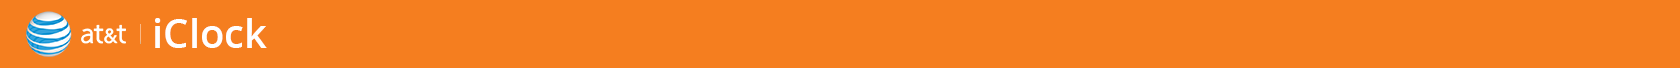
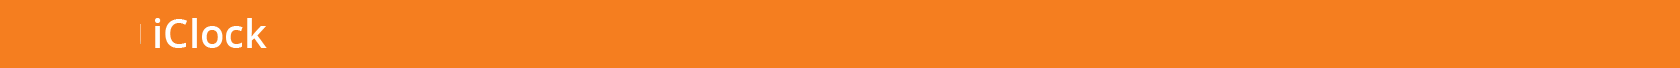
UI Improvements

Changed region(s): [[0.0, 0.1765, 0.0929, 0.8235], [0.1238, 0.4412, 0.1548, 0.4706]]

diff --git a/index.html b/index.html
@@ -1,33 +1,40 @@
 <html>
-	<head>		
-		<meta charset="UTF-8" />
-		<meta http-equiv="X-UA-Compatible" content="IE=edge,chrome=1"> 
-		<meta name="viewport" content="width=device-width, initial-scale=1.0"> 
+<head>		
+	<meta charset="UTF-8" />
+	<meta http-equiv="X-UA-Compatible" content="IE=edge,chrome=1"> 
+	<meta name="viewport" content="width=device-width, initial-scale=1.0"> 
 
-	    <script src="js/jquery-2.0.3.js"></script>
-	    <script src="js/classie.js"></script>
-   		<script src="js/angular.js"></script>
-    	<script src="js/app.js"></script>
-		<script src="http://www.parsecdn.com/js/parse-1.2.12.min.js"></script>
+	<script src="js/jquery-2.0.3.js"></script>
+	<script src="js/classie.js"></script>
+	<script src="js/angular.js"></script>
+	<script src="js/app.js"></script>
+	<script src="http://www.parsecdn.com/js/parse-1.2.12.min.js"></script>
 
-    	<link rel="stylesheet" type="text/css" href="css/style.css">
- 		<link rel="stylesheet" type="text/css" href="css/bootstrap.css">
- 		<link rel="stylesheet" type="text/css" href="css/default.css" />
-		<link rel="stylesheet" type="text/css" href="css/component.css" />
-		<link rel="stylesheet" type="text/css" href="css/flat-ui.css" >
-	</head>
-	<body class="cbp-spmenu-push">
-		<nav class="cbp-spmenu cbp-spmenu-vertical cbp-spmenu-left" id="cbp-spmenu-s1" style="background:#f37e30;">
-			<h3>Menu</h3>
-			<a href="index.html">Home</a>
-			<a href="vacationforecast.html">Vacation Forecast</a>
-			<a href="egobooster.html">Ego Booster</a>
+	<link rel="stylesheet" type="text/css" href="css/style.css">
+	<link rel="stylesheet" type="text/css" href="css/bootstrap.css">
+	<link rel="stylesheet" type="text/css" href="css/default.css" />
+	<link rel="stylesheet" type="text/css" href="css/component.css" />
+	<link rel="stylesheet" type="text/css" href="css/flat-ui.css" >
+</head>
+<body class="cbp-spmenu-push">
+	<nav class="cbp-spmenu cbp-spmenu-vertical cbp-spmenu-left" id="cbp-spmenu-s1" style="background:#f37e30;">
+		<h3>Menu</h3>
+		<a href="index.html">Home</a>
+		<a href="vacationforecast.html">Vacation Forecast</a>
+		<a href="egobooster.html">Ego Booster</a>
+	</nav>
+
+	<div id="main" style="background-color:#34495E; padding-bottom:9999px;">
+		<nav class="navbar navbar-default" role="navigation" style="background-image:url('images/attheader_1680x68_iClock.png'); background-repeat: no-repeat; background-size:cover; border-bottom: solid; border-color: #ffffff; border-width: 1px;">
+			<ul class="nav navbar-nav">
+				<img src="images/logo.png" class="img-responsive" width="60px" id="showLeftPush" style="margin-left: 40px; padding-top: 4px; padding-bottom:4px;
+" />
+			</ul>
 		</nav>
+		<div class="container">
 
-		<div id="main" class="palette palette-sun-flower">
 			<div class="row">
 				<div class="col-xs-12">
-					<img src="images/logo.png" class="img-responsive" width="60px" id="showLeftPush"/>
 				</div>
 			</div>
 			<div class="row height-6em">
@@ -63,27 +70,28 @@
 				</div>	
 			</div>
 		</div>
-		<script>
-			var menuLeft = document.getElementById( 'cbp-spmenu-s1' );
-			var showLeftPush = document.getElementById( 'showLeftPush' );
-			var body = document.body;
+	</div>
+	<script>
+		var menuLeft = document.getElementById( 'cbp-spmenu-s1' );
+		var showLeftPush = document.getElementById( 'showLeftPush' );
+		var body = document.body;
 
-			showLeftPush.onclick = function() {
-				classie.toggle( this, 'active' );
-				classie.toggle( body, 'cbp-spmenu-push-toright' );
-				classie.toggle( menuLeft, 'cbp-spmenu-open' );
-				disableOther( 'showLeftPush' );
-			};
+		showLeftPush.onclick = function() {
+			classie.toggle( this, 'active' );
+			classie.toggle( body, 'cbp-spmenu-push-toright' );
+			classie.toggle( menuLeft, 'cbp-spmenu-open' );
+			disableOther( 'showLeftPush' );
+		};
 
-			function disableOther( button ) {
+		function disableOther( button ) {
 
-				if( button !== 'showLeftPush' ) {
-					classie.toggle( showLeftPush, 'disabled' );
-				}
-
+			if( button !== 'showLeftPush' ) {
+				classie.toggle( showLeftPush, 'disabled' );
 			}
-		</script>
-	</body>
+
+		}
+	</script>
+</body>
 </html>
 <!-- 
 <script type="text/javascript" name="parseSubmit">

diff --git a/css/component.css b/css/component.css
@@ -6,11 +6,11 @@
 
 .cbp-spmenu h3 {
 	color: #afdefa;
-	font-size: 1.9em;
+	font-size: 1.8em;
 	padding: 20px;
 	margin: 0;
 	font-weight: 300;
-	background: #0d77b6;
+	background: #34495E;
 }
 
 .cbp-spmenu a {
